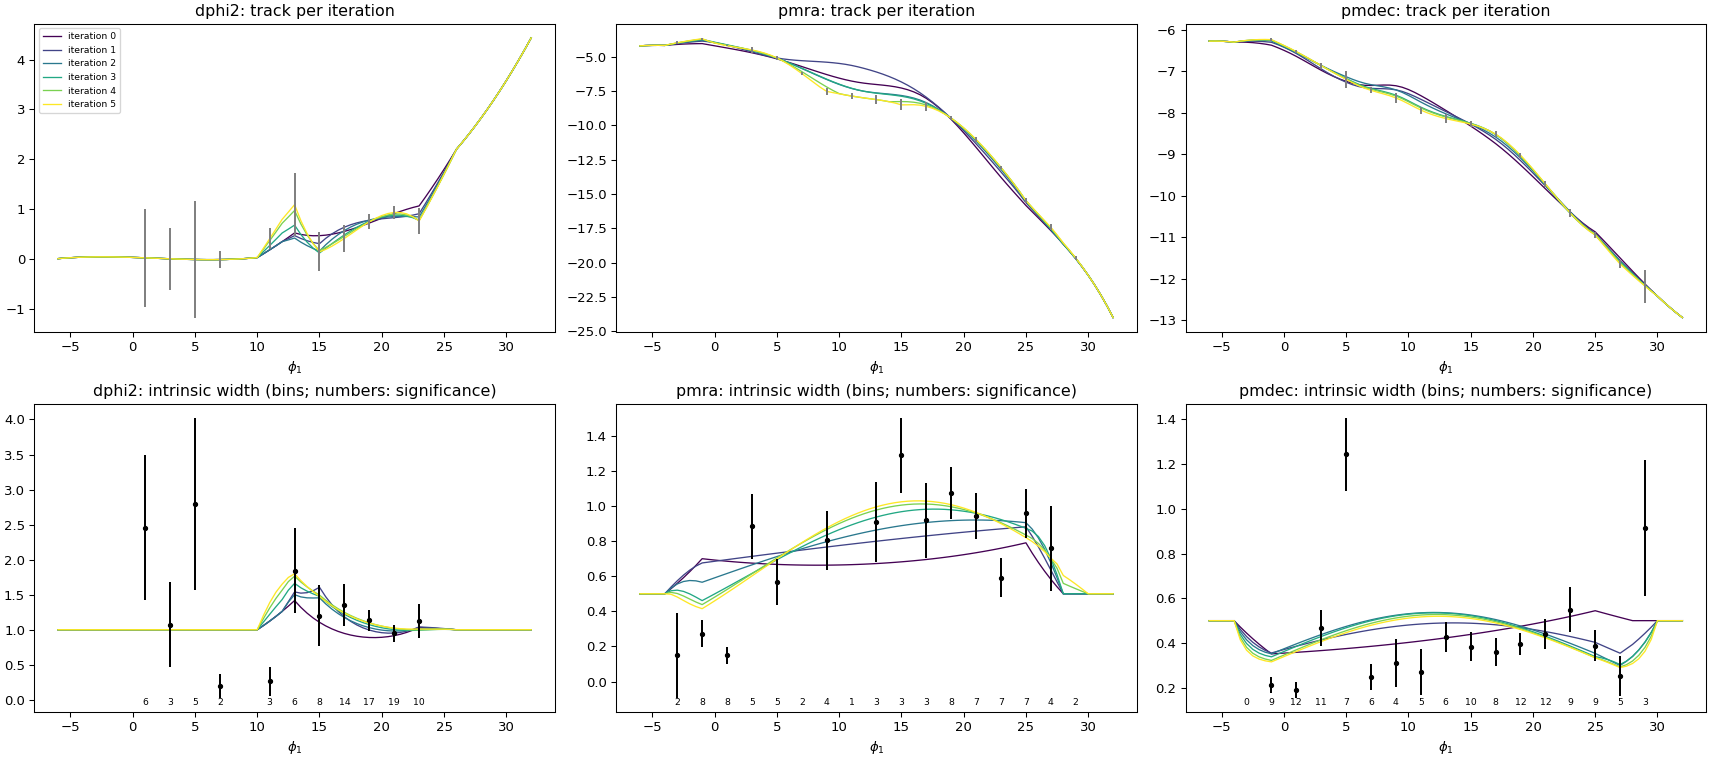
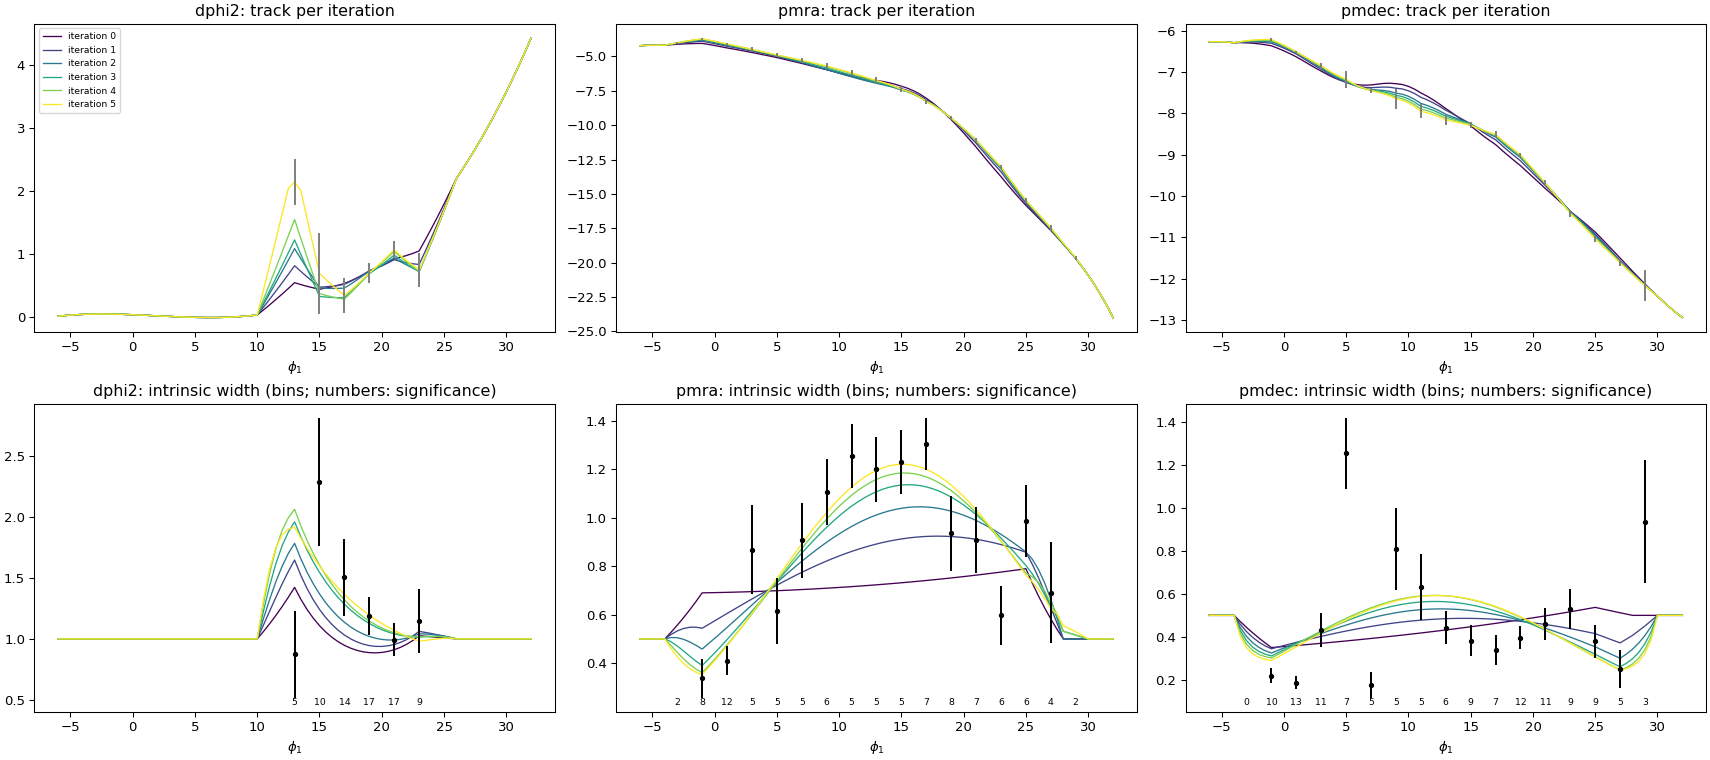
stream_masks.py: linear bridging between accepted bins (cubic spline overshot across gaps), pooled +-3/+-5 deg refits of weak PM bins inside the accepted range, sky fits phi1 >= 13, smoother guard, --null and --orbit-start tests; stream_masks_compare.py

diff --git a/bin/streams/stream_masks.py b/bin/streams/stream_masks.py
@@ -58,9 +58,13 @@ K_ITER, K_FINAL, NIT = 2.5, 2.0, 6
 CAP = dict(pmra=1.5, pmdec=1.5, dphi2=2.5)              # width caps
 DAMP, SIG_MIN = 0.5, 4.0                                # damped track updates; bins accepted at >= 4 sigma
 FLOOR = dict(pmra=0.15, pmdec=0.15, dphi2=0.3)   # zero-width spikes on noise (null test) -> floors; floor-collapsed bins not used
-OSTART = "--orbit-start" in sys.argv        # PM tracks started on omega Cen's orbit (McMillan17); otherwise as --free
-FREE = "--free" in sys.argv or OSTART
-SUF = "_orbitstart" if OSTART else ("_free" if FREE else "")
+OSTART = "--orbit-start" in sys.argv        # PM tracks started on omega Cen's orbit (McMillan17), no anchoring, default fit settings
+FREE = "--free" in sys.argv
+NULL = "--null" in sys.argv                 # pmra start displaced by +3 mas/yr (anchored there): no pmra bin should be accepted
+SUF = "_orbitstart" if OSTART else ("_free" if FREE else ("_null" if NULL else ""))
+SKY_MIN = 13.0                              # sky fits at phi1 >= 13 only (earlier bins never consistently >= 4 sigma; one lone accepted bin
+                                            # threw the track spline around)
+POOL_HW = (3.0, 5.0)                        # multi-scale acceptance: a PM bin failing on its own is refitted on +-3 then +-5 deg
 ORBIT = "--orbit" in sys.argv
 
 
@@ -244,8 +248,8 @@ def smooth_offset(cs, y, err, ok, taper=3.0):
             sp = LSQUnivariateSpline(x, yy, kn, w=w, k=3) if kn else np.poly1d(np.polyfit(x, yy, min(3, len(x)-1), w=w))
         except ValueError:
             kn = kn[1:-1] if len(kn) > 1 else []
-    def f(g):
-        g = np.asarray(g, float); v = sp(np.clip(g, lo, hi))
+    def f(g):                                                     # spline values at the accepted bins, LINEAR in between: the cubic
+        g = np.asarray(g, float); v = np.interp(np.clip(g, lo, hi), x, sp(x))   # overshot across gaps (+-1.5 anchor hit, +58 mas/yr)
         t = np.clip(1-np.maximum(lo-g, g-hi).clip(0)/taper, 0, 1); return v*t
     return f, (float(lo), float(hi))
 
@@ -359,16 +363,18 @@ def main():
         O = cluster_orbit(); o = np.argsort(O["phi1"]); PEAKS = np.column_stack((O["phi1"][o], O["pmra"][o], O["pmdec"][o]))
         for q in ("pmra", "pmdec"):
             T[q]["c"] = np.interp(GRID, O["phi1"][o], O[q][o])
+    elif NULL:
+        T["pmra"]["c"] = T["pmra"]["c"]+3.0
     elif FREE:
         st, PEAKS = pm_peak_tracks(D)
         for q in ("pmra", "pmdec"):
             T[q]["c"] = st[q].copy()
     tu = lambda p: np.interp(p, up[:, 0], up[:, 1], left=np.nan, right=np.nan)
     hist, tables = [], {}; T0 = {q: T[q]["c"].copy() for q in T}; ANCHOR = dict(pmra=1.5, pmdec=1.0, dphi2=2.0)   # max departure from the start
-    if FREE:
+    if FREE or OSTART:
         ANCHOR = dict(pmra=np.inf, pmdec=np.inf, dphi2=2.0)
-    for it in range(NIT):
-        moved = []
+    for it in range(2*NIT if OSTART else NIT):                     # the orbit start is up to 2 mas/yr off the ridge: more damped steps
+        moved, step = [], {}
         for q in ("pmdec", "pmra", "dphi2"):
             if q == "dphi2":
                 sel = other_masks(D, T, q, K_ITER)
@@ -383,7 +389,7 @@ def main():
                     v = D[q]-ev(T, q, u); e = D[q+"_error"]
                     r = fit_pm(v[kb & w_on], e[kb & w_on], u[kb & w_on]-c, v[kb & offb])
                 else:
-                    if c < 0 or c > 24:                                       # beyond 24 the sky fits latch onto noise (marked track kept)
+                    if c < SKY_MIN or c > 24:                                 # beyond 24 the sky fits latch onto noise (marked track kept)
                         continue
                     kb = sel & (np.abs(u-c) < 2.0)                            # sky: 4-deg bins (overlapping), 2-deg bins too noisy
                     v = x-ev(T, q, u); vu = tu(np.array([c]))[0]-ev(T, q, np.array([c]))[0]
@@ -394,10 +400,29 @@ def main():
             cs = np.array([r["c"] for r in rows]); mu = np.array([r["mu"] for r in rows]); me = np.array([r["mu_err"] for r in rows])
             ss = np.array([r["s"] for r in rows]); se = np.array([max(r["s_err"], 1e-3) for r in rows]); sig = np.array([r["sig"] for r in rows])
             cur_s = np.array([ev(T, q, np.array([c_]), "s")[0] for c_ in cs])
-            ok = (sig >= SIG_MIN) & np.isfinite(me) & (me > 0) & np.isfinite(se) & (ss > 1.05*FLOOR[q]) & (ss < CAP[q]) & (np.abs(mu) < (3.0 if FREE and q != "dphi2" else 1.5*np.maximum(cur_s, 0.5)))
+            ok = (sig >= SIG_MIN) & np.isfinite(me) & (me > 0) & np.isfinite(se) & (ss > 1.05*FLOOR[q]) & (ss < CAP[q]) & (np.abs(mu) < (3.0 if (FREE or OSTART) and q != "dphi2" else 1.5*np.maximum(cur_s, 0.5)))
+            thr = lambda i_: 3.0 if (FREE or OSTART) else 1.5*max(cur_s[i_], 0.5)
+            if q != "dphi2" and ok.sum() >= 2:                        # multi-scale acceptance inside the single-bin-accepted range
+                a_, b_ = cs[ok].min(), cs[ok].max(); vq = D[q]-ev(T, q, u); eq = D[q+"_error"]
+                w_on = np.abs(x-SKYC(u)) < SKYH(u); offb = (np.abs(x-SKYC(u)) > OFF_SKY[0]) & (np.abs(x-SKYC(u)) < OFF_SKY[1])
+                for i_, c_ in enumerate(cs):
+                    if ok[i_] or not (a_ < c_ < b_):
+                        continue
+                    for hw in POOL_HW:
+                        kb = sel & (np.abs(u-c_) < hw); r = fit_pm(vq[kb & w_on], eq[kb & w_on], u[kb & w_on]-c_, vq[kb & offb])
+                        if r is not None and r["sig"] >= SIG_MIN and np.isfinite(r["mu_err"]) and r["mu_err"] > 0 and np.isfinite(r["s_err"]) \
+                                and 1.05*FLOOR[q] < r["s"] < CAP[q] and abs(r["mu"]) < thr(i_):
+                            rows[i_].update(r, c=c_, pooled=hw); mu[i_], me[i_], ss[i_], se[i_], sig[i_] = r["mu"], r["mu_err"], r["s"], max(r["s_err"], 1e-3), r["sig"]
+                            ok[i_] = True; break
+            for i_, r in enumerate(rows):
+                r["accepted"] = bool(ok[i_])
             sm = smooth_offset(cs, mu, me, ok); sw = smooth_logwidth(cs, np.log(ss), se/np.maximum(ss, 1e-3), ok, T[q]["s"])
             if sm is not None:
-                T[q]["c"] = np.clip(T[q]["c"]+DAMP*sm[0](GRID), T0[q]-ANCHOR[q], T0[q]+ANCHOR[q]); moved.append(np.max(np.abs(mu[ok])/np.maximum(me[ok], 1e-3)))
+                dv = DAMP*sm[0](GRID)
+                if np.max(np.abs(dv)) > 2*DAMP*np.max(np.abs(mu[ok]))+1e-9:   # guard: the smoother must not exceed the measured offsets
+                    raise RuntimeError(f"{q}: smoothed offset {np.max(np.abs(dv)):.2f} exceeds 2 x max accepted offset")
+                new = np.clip(T[q]["c"]+dv, T0[q]-ANCHOR[q], T0[q]+ANCHOR[q]); step[q] = float(np.max(np.abs(new-T[q]["c"])))
+                T[q]["c"] = new; moved.append(np.max(np.abs(mu[ok])/np.maximum(me[ok], 1e-3)))
             if sw is not None:
                 T[q]["s"] = np.clip(np.exp(DAMP*np.log(np.maximum(sw(GRID), 1e-3))+(1-DAMP)*np.log(T[q]["s"])), FLOOR[q], CAP[q])
             T[q]["range"] = sm[1] if sm is not None else None
@@ -407,7 +432,8 @@ def main():
                 if sm is not None:
                     fitted = (GRID >= sm[1][0]-1) & (GRID <= sm[1][1]+1)
                 SKYW[:] = np.where(fitted, np.clip(2*T[q]["s"], 1.0, 3.0), SKY_HALF)
-            print(f"iter {it} {q:5s}: " + " ".join(f"[{r['c']:.0f}: d{r['mu']:+.2f}+-{r['mu_err']:.2f} s{r['s']:.2f} {r['sig']:.0f}s]" for r in rows), flush=True)
+            print(f"iter {it} {q:5s}: " + " ".join(f"[{r['c']:.0f}: d{r['mu']:+.2f}+-{r['mu_err']:.2f} s{r['s']:.2f} {r['sig']:.0f}s{'*' if r.get('accepted') else ''}{'p' + str(int(r['pooled'])) if 'pooled' in r else ''}]" for r in rows)
+                  + f"  max track step {step.get(q, 0.):.3f}", flush=True)
         hist.append({q: dict(c=T[q]["c"].tolist(), s=T[q]["s"].tolist()) for q in T})
         if moved and max(moved) < 0.1:
             break
@@ -520,8 +546,11 @@ def main():
     fig.suptitle("Data-driven masks (alternating unbinned fits, CMD-filtered Gaia DR3)" + ("; black: omega Cen orbit in McMillan17 (4 Myr forward, 45 Myr back)" if ORBIT else ""), fontsize=11)
     fig.savefig(ROOT/f"plots/stream_masks{SUF}_xsel{'_orbit' if ORBIT else ''}.png", dpi=100); plt.close(fig)
     print(f"plots/stream_masks{SUF}_fits.png, plots/stream_masks{SUF}_xsel{'_orbit' if ORBIT else ''}.png")
-    if FREE:
+    if FREE or OSTART:
         compare_default(T, tables, PEAKS)
+    if NULL:
+        acc = [r["c"] for r in tables["pmra"] if r.get("accepted")]
+        print(f"NULL (pmra start +3 mas/yr): accepted pmra bins {acc}; pooled {[r['c'] for r in tables['pmra'] if r.get('accepted') and 'pooled' in r]}", flush=True)
 
 
 def compare_default(T, tables, PEAKS):

diff --git a/bin/streams/stream_masks_compare.py b/bin/streams/stream_masks_compare.py
@@ -1,0 +1,32 @@
+#!/usr/bin/env python3
+"""Compare stream-mask tracks (2026-10-23): old fitter (cubic-spline smoothing, results/plot_data/stream_masks_v1_spline.json) vs the
+new fitter (linear bridging + pooled refits of weak bins; stream_masks.json = marked start, stream_masks_orbitstart.json = start on
+omega Cen's McMillan17 orbit, no anchoring), with the orbit itself.
+Usage: PYTHONPATH=src python bin/streams/stream_masks_compare.py -> plots/stream_masks_new_fitter.png
+"""
+import json, sys
+from pathlib import Path
+import numpy as np
+ROOT = Path(__file__).resolve().parents[2]; sys.path[:0] = [str(ROOT/"bin/streams"), str(ROOT/"src")]
+import matplotlib; matplotlib.use("Agg"); import matplotlib.pyplot as plt
+sys.argv = sys.argv[:1]
+from stream_masks import cluster_orbit
+
+L = lambda f: json.loads((ROOT/"results/plot_data"/f).read_text())
+old, new, orb = L("stream_masks_v1_spline.json"), L("stream_masks.json"), L("stream_masks_orbitstart.json"); G = np.array(new["grid"]); O = cluster_orbit()
+fig, ax = plt.subplots(2, 3, figsize=(16, 7), sharex=True, constrained_layout=True, gridspec_kw=dict(height_ratios=(2, 1)))
+for j, (q, lab) in enumerate((("pmra", r"$\mu_{\alpha*}$ [mas/yr]"), ("pmdec", r"$\mu_\delta$ [mas/yr]"), ("dphi2", r"$\Delta\phi_2$ [deg]"))):
+    c_old, c_new, c_orb = (np.array(x["tracks"][q]["c"]) for x in (old, new, orb))
+    ax[0, j].plot(O["phi1"], O[q], "-", color="0.6", lw=3, label="omega Cen orbit (start of the orbit run)")
+    ax[0, j].plot(G, c_old, "k--", label="old fitter (marked start)"); ax[0, j].plot(G, c_new, "C0-", lw=1.8, label="new fitter, marked start")
+    ax[0, j].plot(G, c_orb, "C3-", lw=1.2, label="new fitter, orbit start")
+    acc = [r["c"] for r in new["tables"][q] if r.get("accepted")]
+    ax[0, j].plot(acc, np.interp(acc, G, c_new), "o", color="C0", ms=4)
+    ax[1, j].plot(G, c_orb-c_new, "C3-", label="orbit start - marked start"); ax[1, j].plot(G, c_new-c_old, "C0--", label="new - old (marked start)")
+    ax[1, j].axhspan(-0.5, 0.5, color="0.9"); ax[1, j].axhline(0, color="k", lw=0.5)
+    ax[0, j].set(ylabel=lab, title=q); ax[1, j].set(xlabel=r"$\phi_1$ [deg]", ylabel="difference", ylim=(-2.5, 2.5))
+    if q == "dphi2":
+        ax[0, j].set_ylim(-9, 5)
+ax[0, 0].legend(fontsize=8); ax[1, 0].legend(fontsize=8)
+fig.suptitle("Stream mask tracks: new fitter (weak bins refitted on wider windows, straight-line bridging) from two starts; dots: accepted bins; grey band: +-0.5")
+fig.savefig(ROOT/"plots/stream_masks_new_fitter.png", dpi=100)
